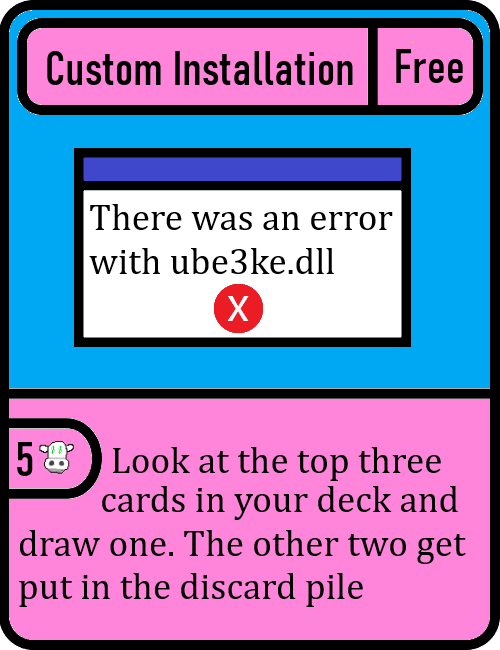
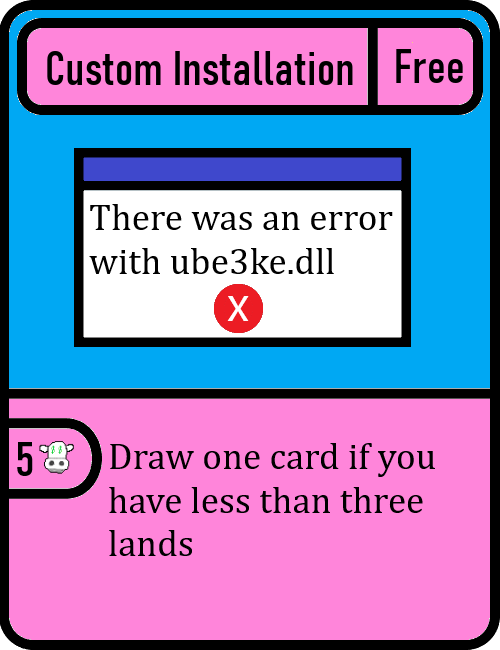
adds two cards

Changed region(s): [[0.03, 0.6769, 0.93, 0.8923], [0.03, 0.8615, 0.72, 0.9538]]

diff --git a/cows.py b/cows.py
@@ -11,7 +11,7 @@ from effects import CurrencyParticle, CircleParticle, play_sound_path, FakeCard
 from constants import *
 # noinspection PyUnresolvedReferences
 from cowspopups import add_popup, draw_cows_popups, handle_cows_popups, add_debug_popup
-from random import choices as randchoice
+from random import choices as randchoice, random
 
 
 class Action:
@@ -23,11 +23,10 @@ class Action:
 
 
 class InputAction:
-    def __init__(self, card, action: int, amount: int, what_choose: int, conditional=None):
+    def __init__(self, card, what_choose: int, amount: int, conditional=None):
         self.card: Card = card
-        self.action = action
-        self.amount = amount
         self.choose = what_choose
+        self.amount = amount
         self.conditional: Union[ActionConditional, None] = conditional
 
 
@@ -42,7 +41,7 @@ class DelayedAction:
 
 class ActionConditional:
     def __init__(self, card, requirement, comparison_type, amount):
-        """Its requirement comparison type amount (e.g. 2 > 3),
+        """Its self, then requirement, then comparison, then amount (e.g. 2 > 3),
         so more than means that requirement > amount
         """
         self.card = card
@@ -54,6 +53,10 @@ class ActionConditional:
         amount1 = 0
         if self.req == REQ_CARD_NUM_RESIDENTS:
             amount1 = self.card.get_num_residents()
+        if self.req == REQ_LAND_AMOUNT:
+            amount1 = len(list(filter(lambda card: card.type == TYPE_LAND, get_local_player().get_cards_recursively())))
+        if self.req == REQ_TURNS_PASSED:
+            amount1 = get_statistics_manager().turns_passed
         amount2 = self.amount
         if self.comp == COND_OPERATOR_MORE_THAN:
             return amount1 > amount2
@@ -231,6 +234,7 @@ class Player:
 
         # misc
         self.loot_pool = {}
+        self.has_drawn_starting = False
         self.index_of_grab = 0
 
     def update_visible_currencies(self):
@@ -923,6 +927,8 @@ def execute_action(action: Union[Action, DelayedAction, InputAction]) -> None:
                 if isinstance(action.card, mul_class):
                     multiplier *= _s[mul_class]
         for _ in range(amount*multiplier):
+            if action.action == DO_SELF_DRAW_CARD:
+                get_local_player().draw_card(action.amount)
             if action.action == DO_SELF_GIVE_DOLLAR:
                 get_local_player().dollar += 1
                 currency_particles.append(CurrencyParticle(particle_pos, DOLLAR))
@@ -946,6 +952,14 @@ def execute_action(action: Union[Action, DelayedAction, InputAction]) -> None:
                     revived.reset_abilities()
                     get_local_player().hand.cards.append(revived)
                     get_local_player().discard_pile.pop(len(get_local_player().discard_pile)-1)
+        if action.action == DO_TAKE_ALL_DISCARD_CARDS:
+            outcome = random() < action.amount/100
+            if outcome:
+                for card in get_local_player().discard_pile:
+                    card.was_on_field = False
+                    card.reset_abilities()
+                    get_local_player().hand.cards.append(card)
+                get_local_player().discard_pile = []
 
         # non amount based things
         if action.action == DO_DISCARD_THIS_CARD:
@@ -1503,7 +1517,7 @@ class Necromancy(Card):
         super().__init__(pos)
         self.cost_amount = 0
         self.cost_currency = DOLLAR
-        self.abilities = [Ability(Action(self, DO_TAKE_TOP_DISCARD_CARD, 1), 0, DOLLAR)]
+        self.abilities = [Ability(Action(self, DO_TAKE_ALL_DISCARD_CARDS, 10), 0, DOLLAR)]
 
 
 class UnstoppableMomentum(Card):
@@ -1518,3 +1532,40 @@ class UnstoppableMomentum(Card):
     def handle_action(self, action: int) -> Union[None, list[Action, DelayedAction, InputAction]]:
         if action == GE_SELF_PLAY_CARD:
             return [Action(self, DO_SELF_GIVE_HAY, 2)]
+
+
+class CustomInstallation(Card):
+    image = "custom_installation.png"
+    type = TYPE_TALISMAN
+
+    def __init__(self, pos: Union[list[int], tuple[int, int]] = (100, 100)):
+        super().__init__(pos)
+        self.cost_amount = 0
+        self.cost_currency = HAY
+        self.abilities = [Ability(
+            Action(
+                self,
+                DO_SELF_DRAW_CARD,
+                1,
+                ActionConditional(self, REQ_LAND_AMOUNT, COND_OPERATOR_LESS_THAN, 3)
+                   ),
+            5,
+            DOLLAR,
+            ab_name="DLL replacement"
+        )]
+
+
+class DevilsContract(Card):
+    image = "devils_contract.png"
+    type = TYPE_TALISMAN
+
+    def __init__(self, pos: Union[list[int], tuple[int, int]] = (100, 100)):
+        super().__init__(pos)
+        self.cost_amount = 0
+        self.cost_currency = HAY
+
+    def handle_action(self, action: int) -> Union[None, list[Action, DelayedAction, InputAction]]:
+        if action == GE_SELF_TURN_START:
+            if get_statistics_manager().turns_passed < 6:
+                return [Action(self, DO_SELF_GIVE_DOLLAR, 4)]
+        return None

diff --git a/main.py b/main.py
@@ -45,6 +45,12 @@ deck_builder.inject_deck(deck_builder.decks[0], get_local_player())
 def set_screen(scr: int):
     global viewing_screen
     viewing_screen = scr
+    if viewing_screen == GAME_SCREEN:
+        if not get_local_player().has_drawn_starting:
+            get_local_player().has_drawn_starting = True
+            get_local_player().draw_starting_hand()
+    if viewing_screen == DECK_BUILDER_SCREEN:
+        deck_builder.inject_deck(deck_builder.selected_deck, get_local_player())
     play_sound(calming_ding_sound, 0.4)
 
 
@@ -127,11 +133,6 @@ calming_ding_sound = pygame.mixer.Sound(join(getcwd(), "sounds", "ding.mp3"))
 def stop_game():
     global running
     running = False
-
-
-def change_screen(change_to: int):
-    global viewing_screen
-    viewing_screen = change_to
 
 
 def draw_debug():
@@ -303,6 +304,7 @@ def draw_deck_builder():
             if event.key == pygame.K_ESCAPE:
                 set_screen(MAIN_MENU_SCREEN)
                 deck_builder.save_to_disk()
+                deck_builder.inject_deck(deck_builder.selected_deck, get_local_player())
 
         deck_builder.handle_events(event)
     deck_builder.draw(screen)
@@ -325,7 +327,6 @@ def relocate_mouse_events():
         events.insert(0, hit_target)
 
 
-get_local_player().draw_starting_hand()
 running = True
 while running:
     screen.fill(BG_COLOR)
@@ -338,11 +339,11 @@ while running:
     if tick/FRAMERATE < 0.2:
         events = []
 
-    window_buttons(True)
-
     # game menu
     if viewing_screen == GAME_SCREEN:
         draw_game()
+
+    window_buttons(True)
 
     # main menu
     if viewing_screen == MAIN_MENU_SCREEN:

diff --git a/constants.py b/constants.py
@@ -33,6 +33,7 @@ PICK_CARD = 10001
 PICK_COW = 10002
 PICK_ANIMAL = 10003
 PICK_LAND = 10004
+PICK_FROM_TOP_OF_DISCARD_PILE = 10005
 
 # effect action type
 DO_SELF_GIVE_DOLLAR = 2000
@@ -43,6 +44,8 @@ DO_DISCARD_THIS_CARD = 2004
 DO_SELF_DRAW_DAIRY_COW = 2005
 DO_SELF_DRAW_MANURE = 2006
 DO_TAKE_TOP_DISCARD_CARD = 2007
+DO_TAKE_ALL_DISCARD_CARDS = 2008
+DO_SELF_DRAW_CARD = 2009
 
 # variable placeholders (PL ace holders)
 PL_SELF_TURNS_PASSED = 5000
@@ -58,6 +61,8 @@ PL_SELF_NUM_ANIMAL_ON_FIELD = 5009
 
 # conditional requirements (REQ uirements)
 REQ_CARD_NUM_RESIDENTS = 12000
+REQ_LAND_AMOUNT = 12001
+REQ_TURNS_PASSED = 12002
 
 # conditional operators (COND itional operators)
 COND_OPERATOR_EQUALS = 11000
